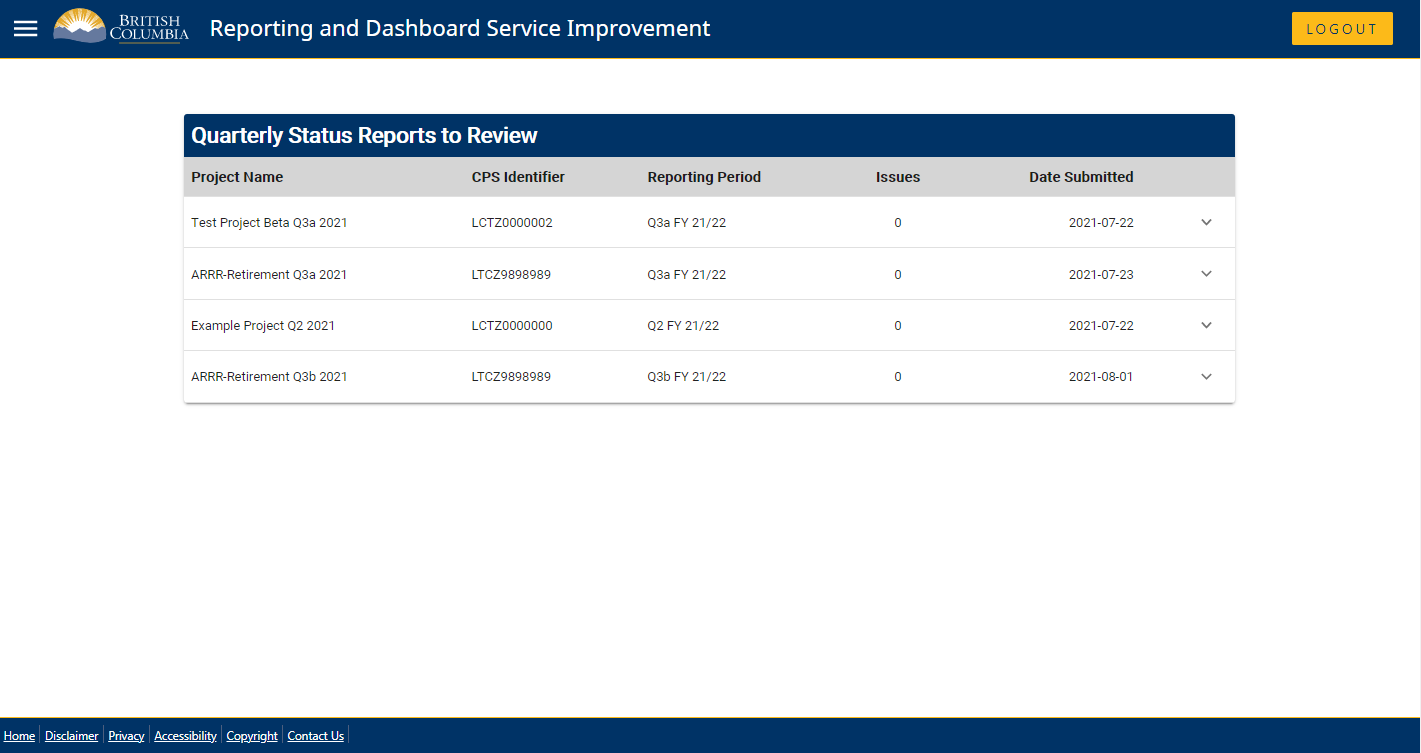
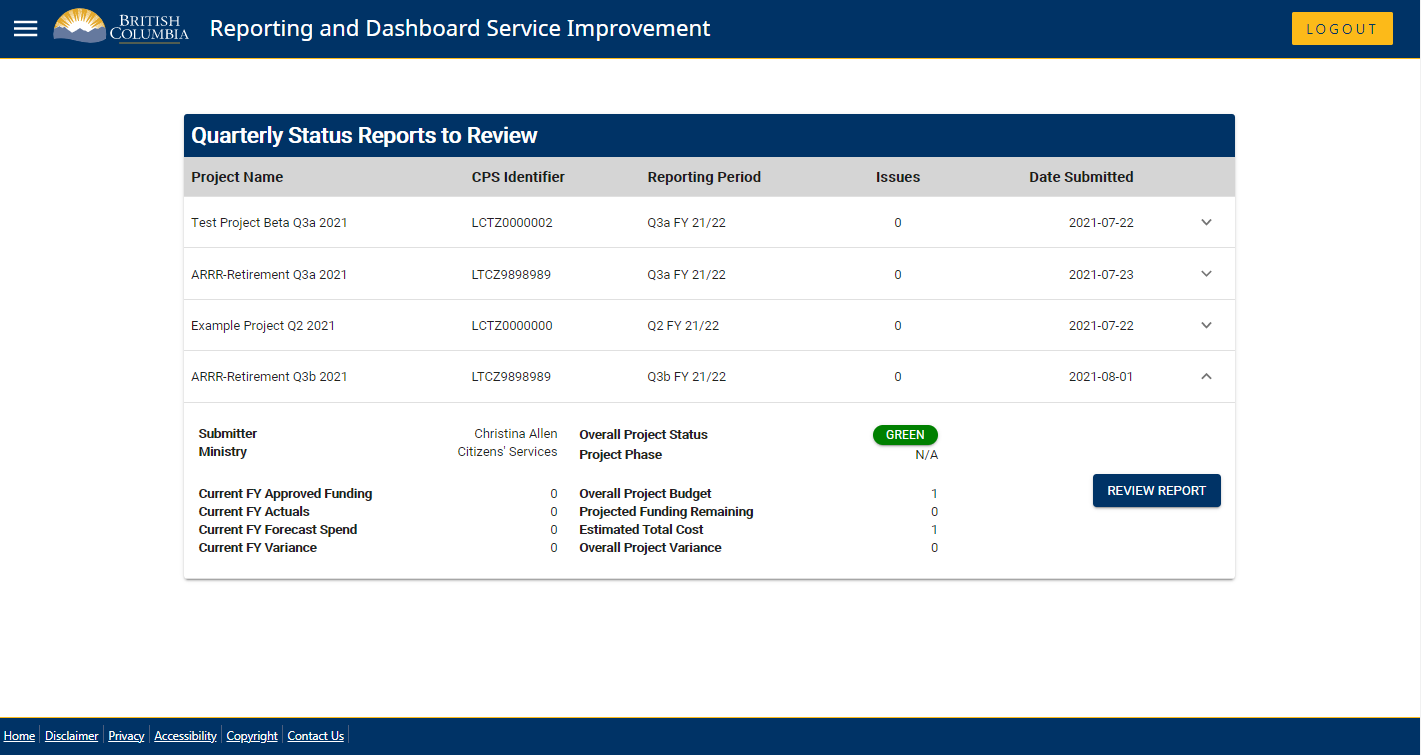
Added FA review process

diff --git a/app/docs/user-processes.md b/app/docs/user-processes.md
@@ -436,6 +436,49 @@ Select the **Submit** button once report information has been reviewed and verif
 
 ## Review a Quarterly Report
 
-**Who:** Finance Analyst
-**When:** A Submitter completes and submits a quarterly status report to the DIO.
+> **Who:** Finance Analyst
+> **When:** A Submitter completes and submits a quarterly status report to the DIO.
+> **Assumptions:**
+> - Finance Analyst understands business rules and what to review a project for.
 
+Submitted quarterly reports must be reviewed by a Finance Analyst. Our application is designed to assist the Finance Analyst in this process by surfacing relevant information for quick access while allowing the Finance Analyst to drill down into the details.
+
+While logged in as a Finance Analyst, the user should see a dashboard that shows a breakdown of the quarterly report states for the current reporting period.
+
+![Finance Analyst Dashboard](./images/screen-fa-dashboard.png)
+
+> :warning: reports are not separated by reporting period in this POC prototype. Future iterations will only display reports for the current reporting period in the summary.
+
+Select the **Review Reports** button to navigate to a list of submitted reports to review.
+
+![Reports to Review List](./images/screen-review-reports.png)
+
+Select the downward arrow of a report you wish to review to expand financial details.
+
+> The expanded details provide a summary of the submitter, the ministry responsible, overall project status, project phase, and financial data.
+
+Select the **Review Report** button to navigate to the report details and begin the review process.
+
+![Review Report 1a](./images/screen-review-report-1a.png)
+
+> The review report view is the same for the Finance Analyst as the report details view for all users, except that it has a panel for the reviewer to add notes and mark a report as approved or flag it for follow up.
+
+Select the round comment icon on the right hand side of the screen to open the reviewer panel.
+
+![Review Report 1b](./images/screen-review-report-1b.png)
+
+Enter any notes about the report in the **QR Notes** field.
+
+> The *QR Notes* field is a free form text field that is designed to allow the analyst to take note of any issues or important comments found in the review process.
+
+Select a section from the tabs to view and assess the report information for that section:
+
+> **Project Information** contains project progress information, project identification information, and contacts assigned to that project.
+> **Status Summary** contains cards for each project status reported. This is also where the state of the project's KPIs are displayed for a report.
+> **Financial Information** contains the financial information reported.
+> **Business Case Objectives** contains the state of the project's business case objectives for that report.
+> **Key Milestones** contains the state of the project's milestones for that report.
+
+Once the review is complete, select either *Approved* or *Follow Up Required* from the **Set Status** dropdown.
+
+Select the **Submit Review** button to update the report state and submit the review to the system.
